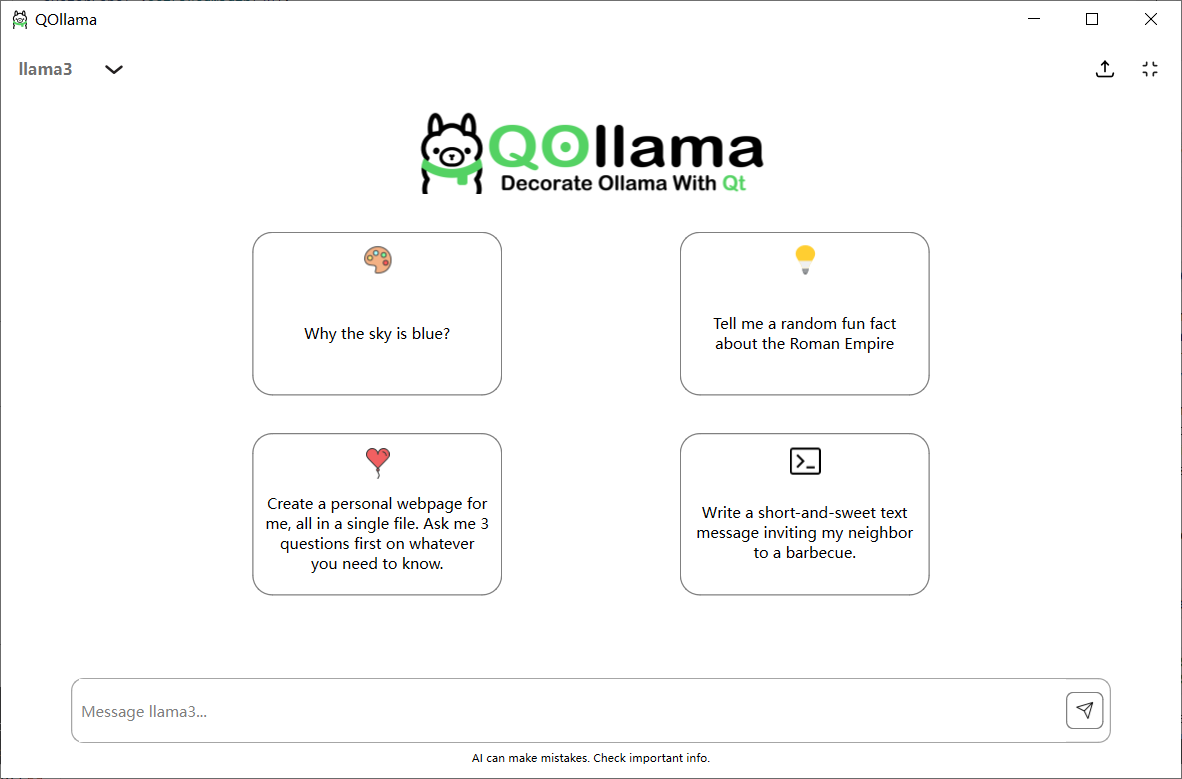
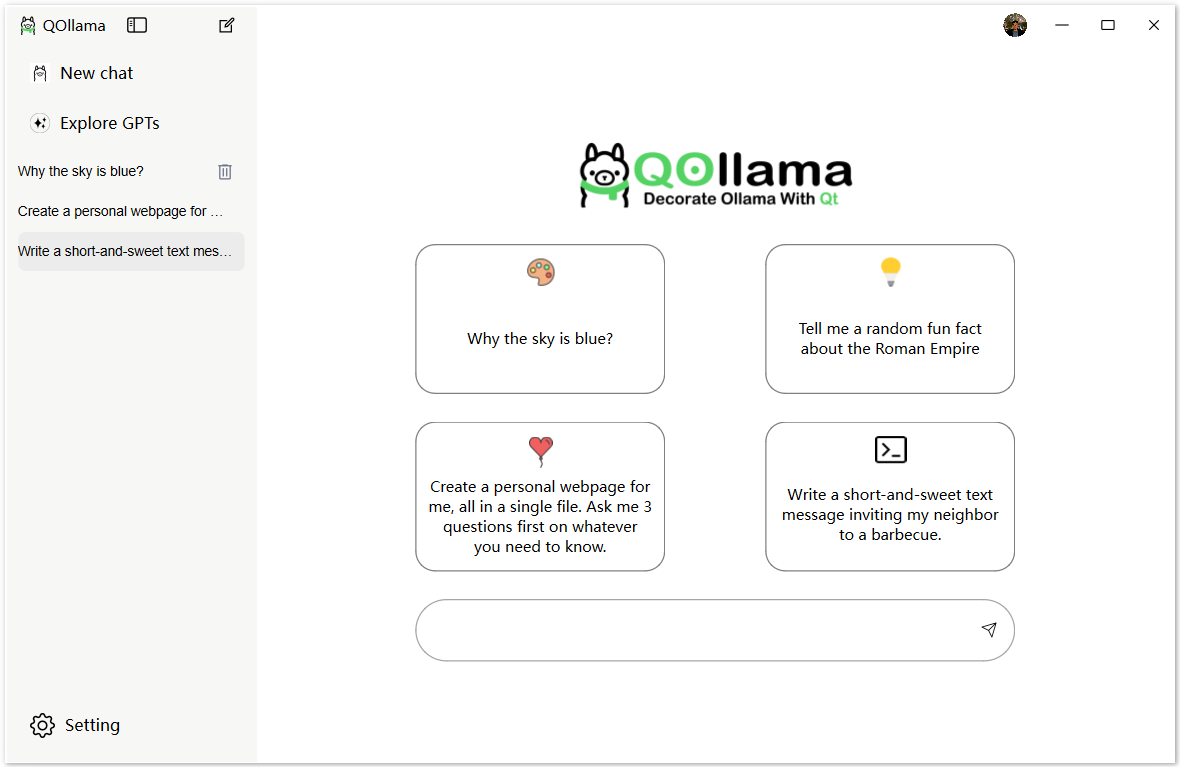
:camera_flash: update snapshot and gif

diff --git a/README.md b/README.md
@@ -4,7 +4,7 @@
 
 QOllama is a Qt-based client for [ollama](https://github.com/ollama/ollama). The application provides a user-friendly interface for interacting with the model and managing chat history.
 
-![gif](./resources/images/QOllama.gif)
+![gif](./resources/images/qollama.gif)
 
 ## Features
 
